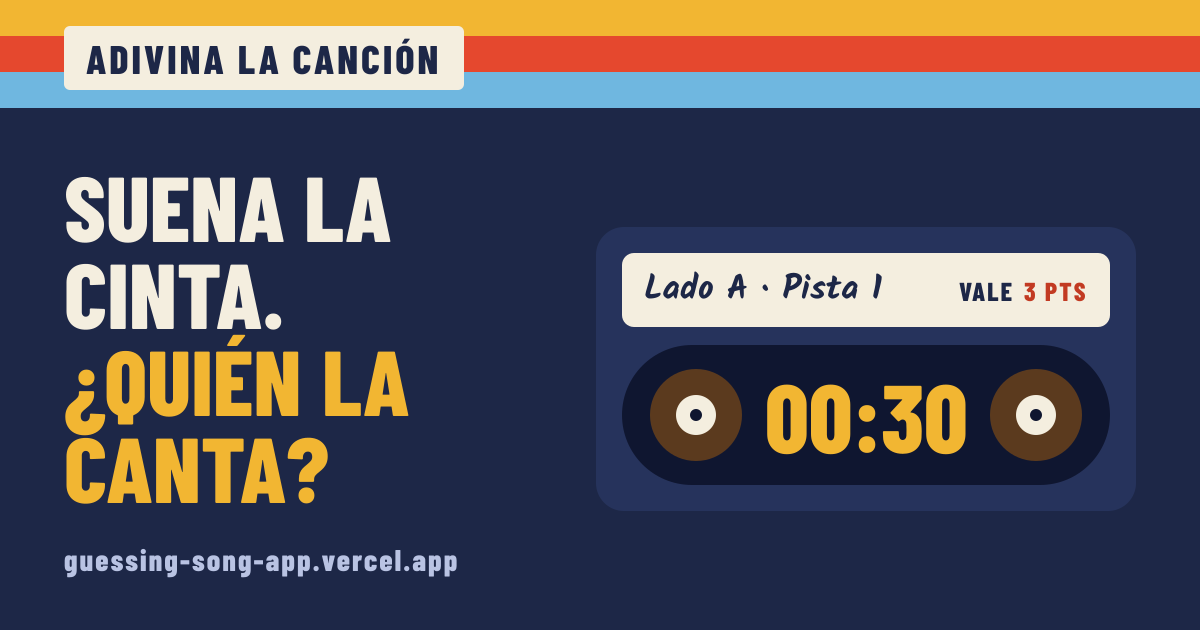
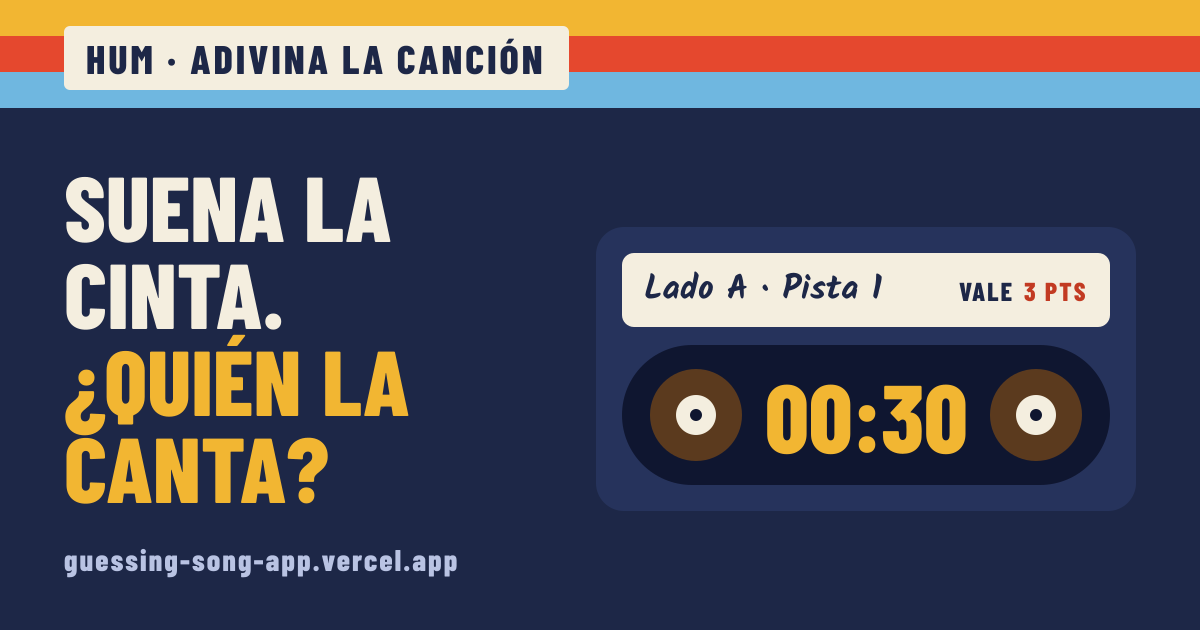
rename

Changed region(s): [[0.0617, 0.0302, 0.4933, 0.1508]]

diff --git a/src/components/ShareDialog.tsx b/src/components/ShareDialog.tsx
@@ -53,7 +53,7 @@ export function ShareDialog({ shared, onClose, onStop }: { shared: Shared; onClo
     fetch(image("tall"))
       .then((res) => res.blob())
       .then((blob) => {
-        const png = new File([blob], `adivina-la-cancion-${shared.cat}.png`, { type: "image/png" });
+        const png = new File([blob], `hum-${shared.cat}.png`, { type: "image/png" });
         if (live && navigator.canShare({ files: [png] })) setFile(png);
       })
       .catch(() => undefined);
@@ -151,11 +151,11 @@ export function ShareDialog({ shared, onClose, onStop }: { shared: Shared; onClo
         )}
 
         <div className={styles.actions}>
-          <a className={BUTTON} href={image("wide")} download={`adivina-la-cancion-${shared.cat}-apaisada.png`}>
+          <a className={BUTTON} href={image("wide")} download={`hum-${shared.cat}-apaisada.png`}>
             <Download size={18} aria-hidden />
             {t.downloadWide}
           </a>
-          <a className={BUTTON} href={image("tall")} download={`adivina-la-cancion-${shared.cat}-vertical.png`}>
+          <a className={BUTTON} href={image("tall")} download={`hum-${shared.cat}-vertical.png`}>
             <Download size={18} aria-hidden />
             {t.downloadTall}
           </a>

diff --git a/src/i18n/messages/en/common.ts b/src/i18n/messages/en/common.ts
@@ -4,9 +4,10 @@ const ordinalRules = new Intl.PluralRules("en", { type: "ordinal" });
 const ORDINAL_SUFFIX: Record<string, string> = { one: "st", two: "nd", few: "rd", other: "th" };
 
 export const common = {
-  brand: "Adivina la canción",
+  brand: "Hum",
+  brandTitle: "Hum · Guess the song",
   metaDescription: "The family game of guessing songs with your Spotify.",
-  ogAlt: "Adivina la canción: “The tape is rolling. Who sings it?” next to a cassette with the round timer at 00:30.",
+  ogAlt: "Hum · Guess the song: “The tape is rolling. Who sings it?” next to a cassette with the round timer at 00:30.",
   language: "Language",
   retry: "Try again",
   retrying: "Trying…",
@@ -45,7 +46,7 @@ export const common = {
     digest: (digest: string) => `Error code: ${digest}`,
     tangledLabel: "Grandma's mix",
     tangledArt: "A broken cassette with tangled tape and a pencil in the reel",
-    globalTitle: "The tape got tangled · Adivina la canción",
+    globalTitle: "The tape got tangled · Hum",
     code404: "Error 404",
     lostTitle: "This tape",
     lostTitleEm: "got lost",

diff --git a/src/i18n/messages/es/common.ts b/src/i18n/messages/es/common.ts
@@ -1,9 +1,11 @@
 // Textos compartidos por varias pantallas.
 export const common = {
-  brand: 'Adivina la canción',
+  brand: 'Hum',
+  /** El nombre con lo que es: título de la pestaña, metadatos y la imagen para redes. */
+  brandTitle: 'Hum · Adivina la canción',
   metaDescription: 'El juego familiar de adivinar canciones con tu Spotify.',
   ogAlt:
-    'Adivina la canción: «Suena la cinta. ¿Quién la canta?» junto a un casete con el reloj de la ronda en 00:30.',
+    'Hum · Adivina la canción: «Suena la cinta. ¿Quién la canta?» junto a un casete con el reloj de la ronda en 00:30.',
   language: 'Idioma',
   retry: 'Reintentar',
   retrying: 'Probando…',
@@ -48,7 +50,7 @@ export const common = {
     digest: (digest: string) => `Código del error: ${digest}`,
     tangledLabel: 'Mix de la abuela',
     tangledArt: 'Un casete roto con la cinta enredada y un lápiz en la bobina',
-    globalTitle: 'Se enredó la cinta · Adivina la canción',
+    globalTitle: 'Se enredó la cinta · Hum',
     code404: 'Error 404',
     lostTitle: 'Esta cinta',
     lostTitleEm: 'se perdió',

diff --git a/src/i18n/messages/en/share.ts b/src/i18n/messages/en/share.ts
@@ -2,7 +2,7 @@ import type { share as es } from "../es/share";
 
 export const share = {
   andMore: (n: number) => `and ${n} more`,
-  pageTitle: (headline: string, cat: string) => `${headline} · ${cat} · Adivina la canción`,
+  pageTitle: (headline: string, cat: string) => `${headline} · ${cat} · Hum`,
   pageDescription: (cat: string, tracks: string) => `The result of game ${cat} (${tracks}). Record yours, no account needed.`,
   cardAlt: (headline: string, cat: string) => `Result card for ${cat}: ${headline}`,
   ctaTitle: "And you, can you guess the song?",
@@ -21,7 +21,7 @@ export const share = {
   shareImage: "Share image",
   downloadWide: "Download landscape",
   downloadTall: "Download portrait",
-  shareText: (headline: string, cat: string) => `${headline} in ${cat} · Adivina la canción`,
+  shareText: (headline: string, cat: string) => `${headline} in ${cat} · Hum`,
   close: "Close",
   cantShare: (detail: string) => `Couldn't share. ${detail}`,
   stop: "Stop sharing",

diff --git a/src/i18n/messages/es/share.ts b/src/i18n/messages/es/share.ts
@@ -2,7 +2,7 @@
 export const share = {
   // Tarjeta y vista previa del enlace
   andMore: (n: number) => `y ${n} más`,
-  pageTitle: (headline: string, cat: string) => `${headline} · ${cat} · Adivina la canción`,
+  pageTitle: (headline: string, cat: string) => `${headline} · ${cat} · Hum`,
   pageDescription: (cat: string, tracks: string) => `El resultado de la partida ${cat} (${tracks}). Graba la tuya, sin cuenta.`,
   cardAlt: (headline: string, cat: string) => `Tarjeta del resultado de ${cat}: ${headline}`,
   // Página pública
@@ -23,7 +23,7 @@ export const share = {
   shareImage: "Compartir imagen",
   downloadWide: "Descargar apaisada",
   downloadTall: "Descargar vertical",
-  shareText: (headline: string, cat: string) => `${headline} en ${cat} · Adivina la canción`,
+  shareText: (headline: string, cat: string) => `${headline} en ${cat} · Hum`,
   close: "Cerrar",
   cantShare: (detail: string) => `No se pudo compartir. ${detail}`,
   stop: "Dejar de compartir",

diff --git a/e2e/join-mobile.spec.ts b/e2e/join-mobile.spec.ts
@@ -66,7 +66,7 @@ test("después de una partida, volver a «Unirme con un código» deja escribir 
   await page.waitForURL("**/game/*");
   const second = await lastGameCode();
   expect(second).not.toBe(first);
-  await mobile.getByRole("link", { name: "Adivina la canción" }).click();
+  await mobile.getByRole("link", { name: "Hum" }).click();
   await mobile.getByRole("link", { name: "Unirme con un código" }).click();
   await mobile.waitForURL("**/join");
 

diff --git a/src/app/layout.tsx b/src/app/layout.tsx
@@ -15,7 +15,7 @@ const SITE_URL = process.env.VERCEL_PROJECT_PRODUCTION_URL
 
 export async function generateMetadata(): Promise<Metadata> {
   const { locale, m } = await getMessages();
-  const title = m.common.brand;
+  const title = m.common.brandTitle;
   const description = m.common.metaDescription;
   // La imagen al compartir va en el idioma de la página (los rastreadores sin idioma reciben el español).
   const image = {

diff --git a/src/app/og/[locale]/route.tsx b/src/app/og/[locale]/route.tsx
@@ -107,7 +107,7 @@ export async function GET(_req: Request, ctx: RouteContext<"/og/[locale]">) {
           <div style={band.stripe(C.saffron)} />
           <div style={band.stripe(C.tomato)} />
           <div style={band.stripe(C.sky)} />
-          <div style={band.brand}>{m.common.brand}</div>
+          <div style={band.brand}>{m.common.brandTitle}</div>
         </div>
 
         <div style={body}>

diff --git a/src/app/r/[token]/image/route.tsx b/src/app/r/[token]/image/route.tsx
@@ -39,7 +39,7 @@ export async function GET(req: Request, ctx: RouteContext<"/r/[token]/image">) {
     headers: {
       "content-type": "image/png",
       "cache-control": CACHE,
-      "content-disposition": `inline; filename="adivina-la-cancion-${format}.png"`,
+      "content-disposition": `inline; filename="hum-${format}.png"`,
     },
   });
 }

diff --git a/src/i18n/messages/es/host.ts b/src/i18n/messages/es/host.ts
@@ -1,6 +1,6 @@
 // Panel del anfitrión (/host): Spotify, invitaciones, miembros y modo sin cuenta.
 export const host = {
-  pageTitle: "Anfitrión · Adivina la canción",
+  pageTitle: "Anfitrión · Hum",
   band: "Anfitrión",
   cantOpen: (detail: string) => `No pudimos abrir el panel. ${detail}`,
   title: "Panel del anfitrión",

diff --git a/src/components/TopBar.module.css b/src/components/TopBar.module.css
@@ -26,8 +26,11 @@
   text-decoration: none;
 }
 
+/* «Hum» son tres letras: más grande y espaciada que el resto de etiquetas para que siga siendo la marca. */
 .brand {
-  font-size: clamp(20px, 2vw, 30px);
+  font-size: clamp(26px, 2.6vw, 38px);
+  letter-spacing: 0.14em;
+  padding: 8px 18px 8px 14px;
 }
 
 .brandIcon {

diff --git a/src/i18n/messages/en/host.ts b/src/i18n/messages/en/host.ts
@@ -1,7 +1,7 @@
 import type { host as es } from "../es/host";
 
 export const host = {
-  pageTitle: "Host · Adivina la canción",
+  pageTitle: "Host · Hum",
   band: "Host",
   cantOpen: (detail: string) => `We couldn't open the dashboard. ${detail}`,
   title: "Host dashboard",
